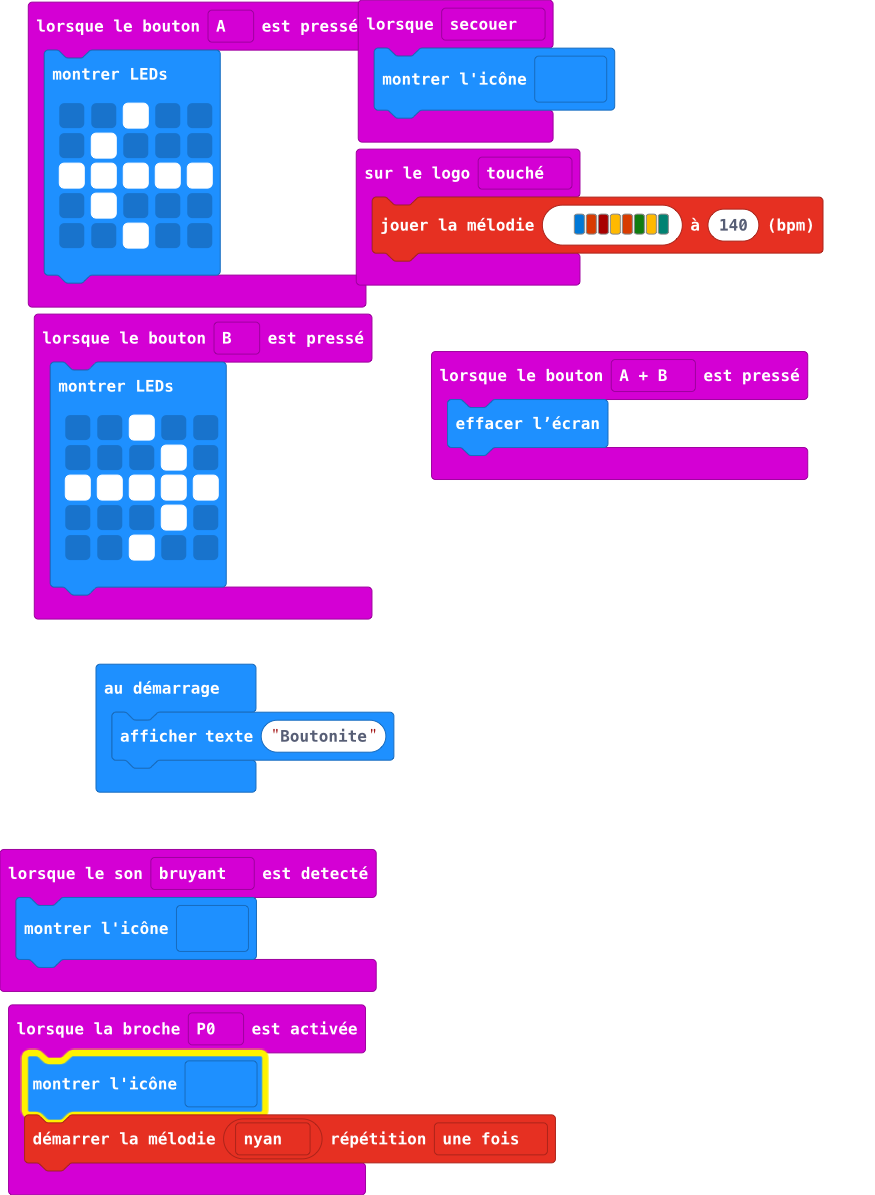
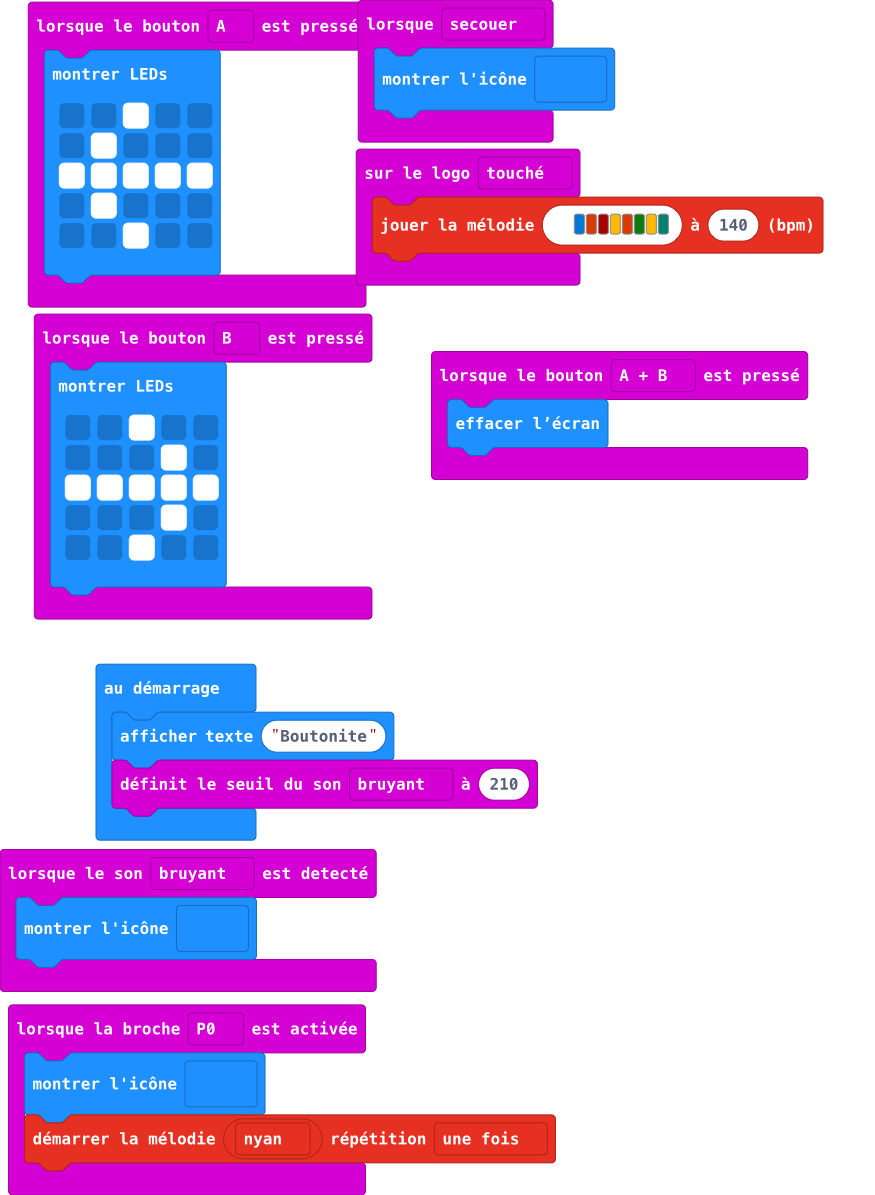
Mise à jour main.blocks, main.ts

Changed region(s): [[0.0926, 0.6192, 0.6171, 0.7121], [0.0, 0.8669, 0.3086, 0.9598]]

diff --git a/main.ts b/main.ts
@@ -33,3 +33,4 @@ input.onGesture(Gesture.Shake, function () {
     basic.showIcon(IconNames.Skull)
 })
 basic.showString("Boutonite")
+input.setSoundThreshold(SoundThreshold.Loud, 210)
